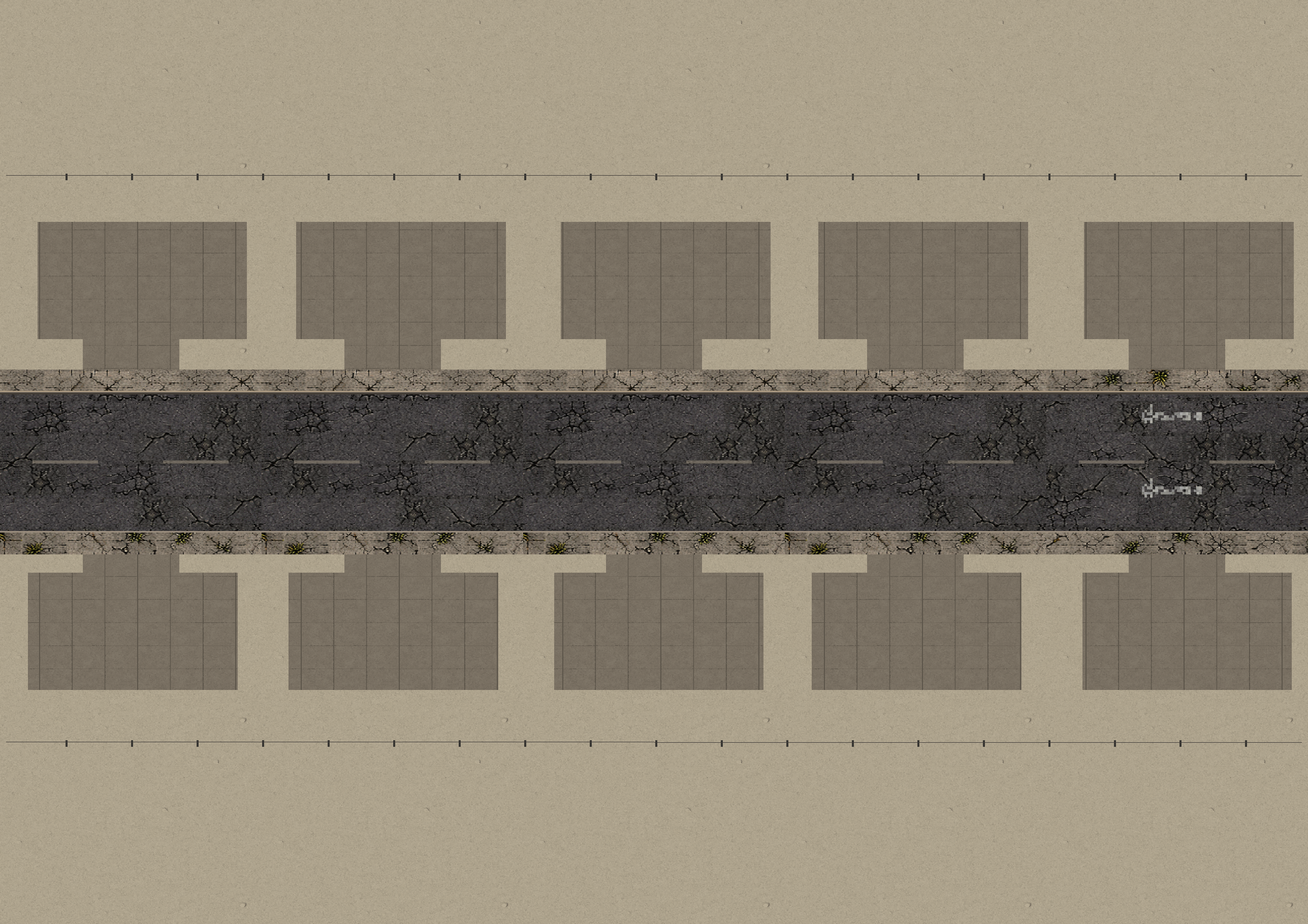
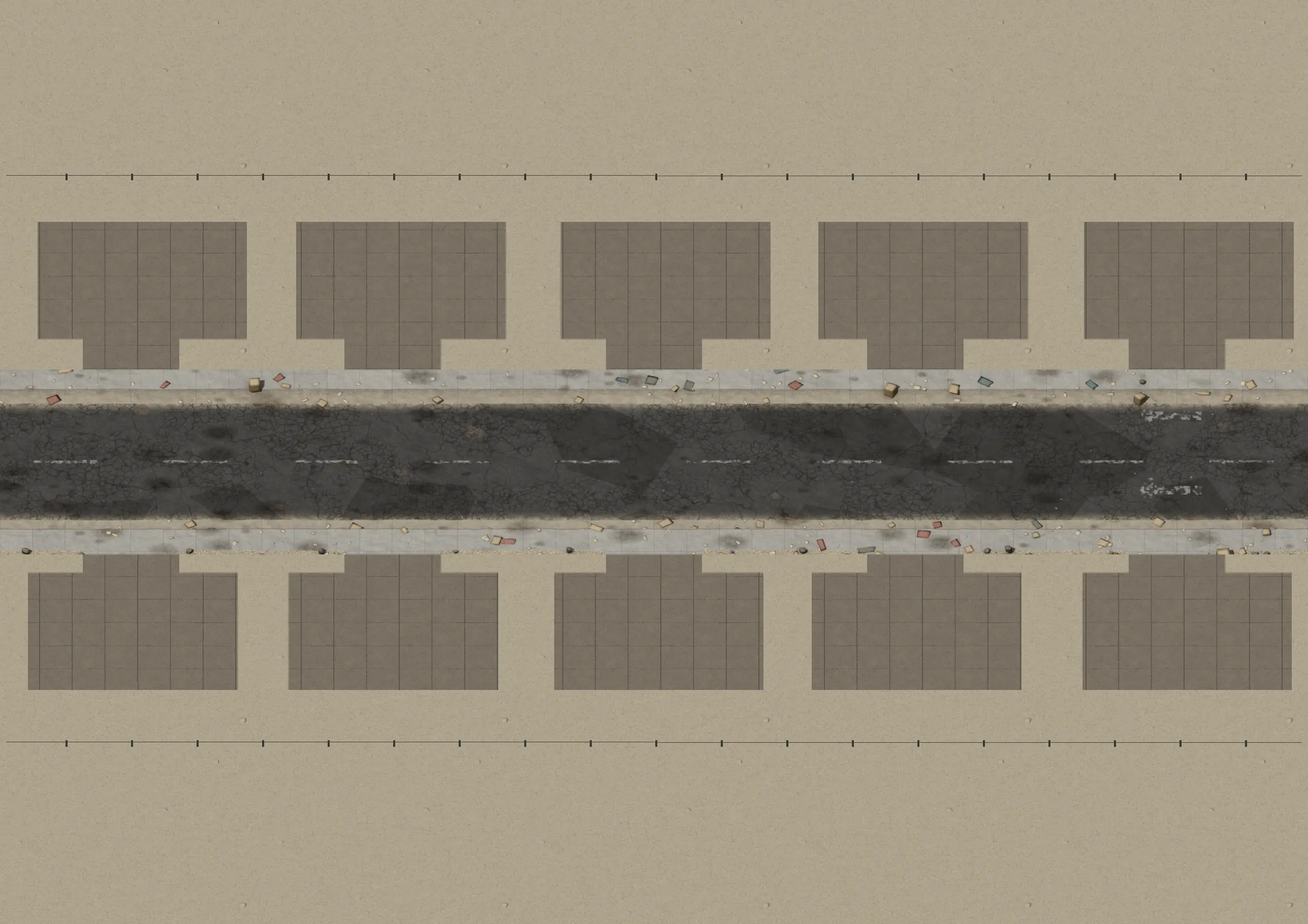
COOK [the floor, not final] + [every 2D asset into 3D]: lots.0 into the fight through the rig, no card (rule 123); the odd blocks' tool (the shore's still water, the landfill's trash as things, the casino's carpet ground)
Claude-Session: https://claude.ai/code/session_01THwAKCcw9xwKpaUQmyVnau

Changed region(s): [[0.0, 0.4, 1.0, 0.6154]]

diff --git a/tools/bohemia_cook_the_odd_blocks_through_the_rig_10_22_26.py b/tools/bohemia_cook_the_odd_blocks_through_the_rig_10_22_26.py
@@ -1,0 +1,197 @@
+#!/usr/bin/env python3
+"""BOHEMIA -- COOK [every 2D asset into 3D] + [the floor, not final] 10/22/26: THE THREE ODD FIGHT BLOCKS IN 3D.
+Rule 123 (Paolo 10/20: '...revamping all the 2-D assets into these 3-D sprites... analog horror Crashbox vibes, go
+crazy'): no card; same file, same 2575 x 1820, same anchor. The floor tools build ground from the plan's grounds; three
+block kinds are mostly NOT ground in the plan, so they never went through (10/19's 24 blocks left them out):
+
+  SHORE     the lake (41% of the picture): here dead still water as its own surface over the lake bed, black where it
+            is deep and a dull green-teal on the shelf, a line of scum along the edge, a tyre and some bags afloat.
+  LANDFILL  the trash (18%): every old piece is a thing again where it lay: a black bag, a tyre, a rusted crate, a
+            cardboard box or a dead appliance, sized off the old piece, on the rough ground of the cells.
+  CASINO    the whole floor is carpet (the old picture's red-brown with its gold dots): here a carpet ground, its gold
+            lattice, its tile seams, its stains and its worn paths, with the floor's litter of chips, cups and paper.
+            ANALOG HORROR: one stool still stands at a clean patch of carpet, a coat over it.
+
+The board's cover (slot banks, tables, the rocks and the rubble on these boards) is its own pictures, already through the
+rig (cook_cover_rig); nothing here moves a tile.
+
+  <venv>/bin/python tools/bohemia_cook_the_odd_blocks_through_the_rig_10_22_26.py <block> ...   (about 5 min a block)
+  <venv>/bin/python tools/bohemia_cook_the_floor_not_final_10_20_26.py --swap <block> ...
+
+REFERENCE CHECK (the 9/4 standing duty): the old blocks are the twins (where the water is, where each piece of trash lay,
+the carpet's colour); real places: Lake Mead's bathtub-ring shore at low water, the Apex landfill's working cells, an
+off-Strip casino floor's patterned carpet; Machine Party's grime (records/BOHEMIA_REFERENCE_MACHINE_PARTY_8_3_26.md 3.1).
+No reference game.
+REUSE CHECK (REUSE-FIRST): the not-final tool and the floor tool whole (their ground, materials, grime, junk, render,
+swap), the town tool's hooks, its instancing; the floor tool's own ground-spec mechanism for the carpet.
+TASTE CHECK: the rig is the look (rule 115).
+"""
+import os, sys, math
+import numpy as np
+
+R = os.path.dirname(os.path.dirname(os.path.abspath(__file__)))
+sys.path.insert(0, os.path.join(R, 'tools'))
+import bohemia_cook_the_futures_through_the_rig_10_22_26 as FU            # the town buildings and the futures come with it
+T = FU.T; NF = T.NF; F = NF.F
+ODD = ('shore', 'landfill', 'casino')
+KEEP = {}
+
+# THE CARPET: a ground kind of the floor tool's own spec (red-brown, its tile seams, its stains and spills)
+F.MATS['carpet'] = dict(role=('clay_rust', 0), target=(96, 52, 40), h=0.0, alt=('clay_rust', 1), alt_amt=0.18, grit=0.1, speck=(160, 0.18),
+                        joints=dict(pitch=0.61, width=0.004), panel_var=0.07,
+                        patches=dict(scale=0.45, cut=0.74, mul=0.55), oil=dict(scale=0.6, cut=0.7, mul=0.62))
+if 'carpet' not in F.IDS:
+    F.IDS.append('carpet'); F.ID['carpet'] = len(F.IDS) - 1
+_gm = F.ground_material
+
+
+def ground_material(bpy, name):
+    m = _gm(bpy, name)
+    if name != 'carpet': return m
+    nt = m.node_tree; b = nt.nodes['Principled BSDF']
+    src = b.inputs['Base Color'].links[0].from_socket                       # the floor tool's colour, then the gold lattice
+    tc = nt.nodes.new('ShaderNodeTexCoord'); mp = nt.nodes.new('ShaderNodeMapping')
+    mp.inputs['Rotation'].default_value = (0, 0, math.radians(45)); mp.inputs['Scale'].default_value = (2.4, 2.4, 2.4)
+    nt.links.new(tc.outputs['Object'], mp.inputs['Vector'])
+    br = nt.nodes.new('ShaderNodeTexBrick'); br.offset = 0.0; br.inputs['Brick Width'].default_value = 1.0; br.inputs['Row Height'].default_value = 1.0
+    br.inputs['Mortar Size'].default_value = 0.035; br.inputs['Scale'].default_value = 1.0
+    br.inputs['Color1'].default_value = (1, 1, 1, 1); br.inputs['Color2'].default_value = (0.9, 0.9, 0.9, 1)
+    gold = tuple(F.role_lin('clay_mustard', 1)) + (1,); br.inputs['Mortar'].default_value = gold
+    nt.links.new(mp.outputs['Vector'], br.inputs['Vector'])
+    mo = nt.nodes.new('ShaderNodeMixRGB'); mo.blend_type = 'MIX'
+    nt.links.new(br.outputs['Fac'], mo.inputs['Fac']); nt.links.new(src, mo.inputs['Color1']); mo.inputs['Color2'].default_value = gold
+    worn = nt.nodes.new('ShaderNodeTexNoise'); worn.inputs['Scale'].default_value = 0.18; nt.links.new(tc.outputs['Object'], worn.inputs['Vector'])
+    wr = nt.nodes.new('ShaderNodeMapRange'); wr.inputs['From Min'].default_value = 0.55; wr.inputs['From Max'].default_value = 0.7
+    wr.inputs['To Min'].default_value = 0.85; wr.inputs['To Max'].default_value = 0.35; nt.links.new(worn.outputs['Fac'], wr.inputs['Value'])
+    fade = nt.nodes.new('ShaderNodeMath'); fade.operation = 'MULTIPLY'; nt.links.new(wr.outputs['Result'], fade.inputs[0]); nt.links.new(br.outputs['Fac'], fade.inputs[1])
+    nt.links.new(fade.outputs[0], mo.inputs['Fac'])                          # the lattice worn off where people walked
+    nt.links.new(mo.outputs['Color'], b.inputs['Base Color'])
+    return m
+
+
+F.ground_material = ground_material
+_load_plan = F.load_plan
+
+
+def load_plan(bid):
+    gid, ground, lum_, ship, kit = _load_plan(bid)
+    kind = bid.split('.')[0]
+    if kind not in ODD: return gid, ground, lum_, ship, kit
+    from scipy import ndimage
+    gid = gid.copy(); lum_ = lum_.copy()
+    no = gid == 255
+    a = ship.astype(np.int16); L = T.lum(ship)
+    if kind == 'shore':
+        water = no & (a[..., 2] > a[..., 0] + 6)
+        deep = water & (L < 80)
+        gid[water] = F.ID['playa']; gid[no & ~water] = F.ID['desert']
+        KEEP['water'] = water; KEEP['deep'] = deep
+    elif kind == 'landfill':
+        lab, n = ndimage.label(no); pieces = []
+        for i, sl in enumerate(ndimage.find_objects(lab)):
+            m = lab[sl] == i + 1
+            if m.sum() < 60: continue
+            c = np.median(a[sl][m], axis=0); y0, y1, x0, x1 = sl[0].start, sl[0].stop, sl[1].start, sl[1].stop
+            pieces.append(dict(x=(x0 + x1) / 2 / F.PPM, y=F.SIDE * (1 - y1 / F.H), w=(x1 - x0) / F.PPM, hs=(y1 - y0) / F.PPM, rgb=[int(v) for v in c]))
+        gid[no] = F.ID['rough']; KEEP['pieces'] = pieces
+    elif kind == 'casino':
+        gid[:] = F.ID['carpet']
+    lum_[no] = 255                                                           # the maker had no shading for what was not ground
+    ground = gid != 255
+    return gid, ground, lum_, ship, kit
+
+
+F.load_plan = load_plan
+_build = F.build
+
+
+def water_mesh(bpy, mask, z, name, mat, cell=0.25):
+    n = int(F.SIDE / cell)
+    ys = ((np.arange(n) + 0.5) * cell / F.SIDE * F.H).astype(int); xs = ((np.arange(n) + 0.5) * cell * F.PPM).astype(int)
+    m = mask[np.clip(ys, 0, F.H - 1)][:, np.clip(xs, 0, F.W - 1)]
+    if not m.any(): return None
+    vid = -np.ones((n + 1, n + 1), np.int64); verts = []; faces = []
+    for i, j in zip(*np.nonzero(m)):
+        q = []
+        for (di, dj) in ((1, 0), (1, 1), (0, 1), (0, 0)):
+            ii, jj = i + di, j + dj
+            if vid[ii, jj] < 0: vid[ii, jj] = len(verts); verts.append((jj * cell, F.SIDE - ii * cell, z))
+            q.append(int(vid[ii, jj]))
+        faces.append(q)
+    me = bpy.data.meshes.new(name); me.from_pydata(verts, [], faces); me.update(); me.materials.append(mat)
+    o = bpy.data.objects.new(name, me); bpy.context.scene.collection.objects.link(o)
+    return o, m
+
+
+def build(bpy, gid_full, seed, quick=False):
+    objs, g = _build(bpy, gid_full, seed, quick)
+    bid = NF.LEDGER.get('bid', ''); kind = bid.split('.')[0]
+    if quick or kind not in ODD: return objs, g
+    rng = np.random.RandomState(seed + 13)
+    ico = F.ico(bpy); lump = (ico[0] * 0.5 + np.array([0, 0, 0.5], np.float32), ico[1]); box = (NF.CUBE_V, NF.CUBE_F)
+    add = []
+    if kind == 'shore':
+        deep = NF.material(bpy, 'water_deep', 'cloth_black', 1, 0.8); shelf = NF.material(bpy, 'water_shelf', 'clay_teal', 0, 0.75)
+        scum = NF.material(bpy, 'scum', 'clay_bone', 2, 0.9); bag = NF.material(bpy, 'float_bag', 'rubber', 2)
+        r1 = water_mesh(bpy, KEEP['deep'], -0.05, 'water_deep', deep); r2 = water_mesh(bpy, KEEP['water'] & ~KEEP['deep'], -0.06, 'water_shelf', shelf)
+        add += [r[0] for r in (r1, r2) if r]
+        wm = KEEP['water']; e = np.zeros_like(wm); e[1:] |= wm[1:] != wm[:-1]; e[:-1] |= wm[1:] != wm[:-1]
+        ys, xs = np.nonzero(e[::6, ::6]); scums, floats = [], []
+        for y, x in zip(ys, xs):
+            if rng.rand() < 0.5: continue
+            X, Y = x * 6 / F.PPM, F.SIDE * (1 - y * 6 / F.H); s_ = rng.uniform(0.15, 0.5)
+            scums.append((X + rng.normal(0, 0.15), Y + rng.normal(0, 0.15), -0.06, s_, s_ * rng.uniform(0.4, 1.0), 0.012, rng.uniform(0, 6.3), 0.0))
+        wy, wx = np.nonzero(KEEP['deep'][::40, ::40])
+        for k in rng.choice(len(wy), min(len(wy), 6), replace=False) if len(wy) else []:
+            floats.append((wx[k] * 40 / F.PPM, F.SIDE * (1 - wy[k] * 40 / F.H), -0.12, 0.45, 0.35, 0.22, rng.uniform(0, 6.3), 0.0))
+        add += [NF.instances(bpy, 'shore_scum', box, scums, scum), NF.instances(bpy, 'shore_float', lump, floats, bag, 0.4, rng)]
+        if len(wy):                                                          # one tyre afloat, half under
+            k = rng.randint(len(wy)); bpy.ops.mesh.primitive_torus_add(major_radius=0.33, minor_radius=0.11, location=(wx[k] * 40 / F.PPM + 1.5, F.SIDE * (1 - wy[k] * 40 / F.H), -0.07))
+            t = bpy.context.active_object; t.data.materials.append(NF.material(bpy, 'tyre', 'rubber', 1)); add.append(t)
+    elif kind == 'landfill':
+        mats = dict(bag=NF.material(bpy, 'lf_bag', 'rubber', 2), rust=NF.material(bpy, 'lf_rust', 'clay_rust', 1), card=NF.material(bpy, 'lf_card', 'tape_masking', 2),
+                    grey=NF.material(bpy, 'lf_grey', 'tape_grey', 2), white=NF.material(bpy, 'lf_white', 'clay_bone', 3, 0.85))
+        items = {k: [] for k in mats}; lumps = []
+        for p in KEEP['pieces']:
+            r_, g_, b_ = p['rgb']; Lp = 0.299 * r_ + 0.587 * g_ + 0.114 * b_
+            w = max(0.25, p['w']); d = w * rng.uniform(0.7, 1.0); hh = float(np.clip(p['hs'] - 0.707 * d, 0.2, 1.4))
+            rz = rng.uniform(-0.4, 0.4)
+            if Lp < 45: lumps.append((p['x'], p['y'] + d / 2, -0.05, w, d, hh * 0.9, rng.uniform(0, 6.3), rng.uniform(-0.2, 0.2)))
+            elif r_ > 140 and g_ < 0.65 * r_: items['rust'].append((p['x'], p['y'] + d / 2, 0.0, w, d, hh, rz, 0.0))
+            elif Lp > 150: items['white'].append((p['x'], p['y'] + d / 2, 0.0, w, d, hh, rz, 0.0))
+            elif r_ > b_ + 25: items['card'].append((p['x'], p['y'] + d / 2, 0.0, w, d, hh, rz, rng.uniform(-0.15, 0.15)))
+            else: items['grey'].append((p['x'], p['y'] + d / 2, 0.0, w, d, hh, rz, 0.0))
+        for k, it in items.items(): add.append(NF.instances(bpy, 'lf_' + k, box, it, mats[k], 0.12, rng))
+        add.append(NF.instances(bpy, 'lf_bags', lump, lumps, mats['bag'], 0.4, rng))
+    elif kind == 'casino':
+        chip = [NF.material(bpy, 'chip_%d' % i, r_, s_) for i, (r_, s_) in enumerate((('clay_rust', 2), ('clay_teal', 2), ('clay_bone', 3), ('cloth_black', 1)))]
+        paper = NF.material(bpy, 'cas_paper', 'clay_bone', 3); cup = NF.material(bpy, 'cas_cup', 'clay_bone', 2)
+        chips = [[] for _ in chip]; papers = []; cups = []
+        for _ in range(rng.randint(140, 220)):
+            x, y = rng.uniform(1, F.SIDE - 1), rng.uniform(1, F.SIDE - 1)
+            if rng.rand() < 0.55:                                            # a spill of chips nobody came back for
+                for _k in range(rng.randint(1, 6)):
+                    chips[rng.randint(len(chip))].append((x + rng.normal(0, 0.12), y + rng.normal(0, 0.12), 0.0, 0.04, 0.04, 0.006, 0.0, rng.uniform(-0.2, 0.2)))
+            elif rng.rand() < 0.6: papers.append((x, y, 0.0, rng.uniform(0.08, 0.22), rng.uniform(0.1, 0.3), 0.004, rng.uniform(0, 6.3), 0.0))
+            else: cups.append((x, y, 0.0, 0.08, 0.08, 0.11, 0.0, math.radians(90) if rng.rand() < 0.7 else 0.0))
+        add += [NF.instances(bpy, 'cas_chips_%d' % i, box, c_, chip[i]) for i, c_ in enumerate(chips)]
+        add += [NF.instances(bpy, 'cas_paper', box, papers, paper), NF.instances(bpy, 'cas_cups', lump, cups, cup)]
+        sx, sy = rng.uniform(15, 45), rng.uniform(15, 45)                   # the one stool, a coat over it
+        st = NF.material(bpy, 'stool', 'rubber', 1); coat = NF.material(bpy, 'coat', 'clay_teal', 0)
+        add.append(NF.instances(bpy, 'cas_stool', box, [(sx, sy, 0.0, 0.06, 0.06, 0.72, 0.0, 0.0), (sx, sy, 0.72, 0.42, 0.42, 0.08, 0.3, 0.0)], st))
+        add.append(NF.instances(bpy, 'cas_coat', lump, [(sx + 0.05, sy + 0.18, 0.5, 0.45, 0.16, 0.45, 0.3, 0.2)], coat, 0.3, rng))
+    add = [o for o in add if o is not None]
+    zs = 1.0 / math.cos(math.radians(float(NF.RIG.G['tilt_deg'])))
+    for o in add:
+        if o.name.startswith('water_'): o.scale = (1, 1, zs)                 # still water takes no dust and no dents
+    return objs + [o for o in add if not o.name.startswith('water_')], g
+
+
+F.build = build
+
+
+if __name__ == '__main__':
+    a = sys.argv[1:]
+    if not os.path.exists(os.path.join(NF.ORIG, 'fight_ground.json')): NF.orig()
+    for b in a: NF.render(b)
+    sys.stdout.flush(); os._exit(0)
